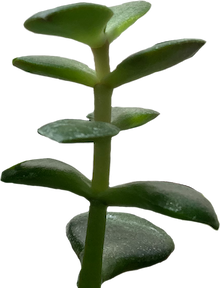
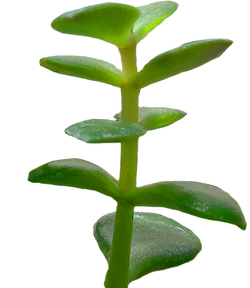
Tweak rendering and positioning of entities on canvas

diff --git a/src/core/canvas-ui/renderers/tree/plant-renderer.ts b/src/core/canvas-ui/renderers/tree/plant-renderer.ts
@@ -9,7 +9,7 @@ const jade = loadJadeAsset()
 const preRenderedPlants: OffscreenCanvas[] = []
 
 export default (plant: Plant, ctx: CanvasRenderingContext2D) => {
-  if(window.OffscreenCanvas != undefined && !window.DEBUG){
+  if ( window.OffscreenCanvas != undefined && !window.DEBUG ){
     if (preRenderedPlants[plant.id]) {
       drawPreRenderedPlant(plant, ctx)
     } else {
@@ -45,8 +45,6 @@ const renderPlantRecursively = (
   } else if (plant instanceof Jade) {
     renderJade(root, ctx)
   } else {
-    // ctx.strokeStyle = "#a56a27"
-    // ctx.lineWidth = 10
     ctx.strokeStyle = "#000000"
     ctx.lineWidth = 2
     renderBranch(root, ctx)
@@ -99,15 +97,15 @@ function loadLeafAsset(): HTMLImageElement {
 
 function loadJadeAsset(): HTMLImageElement {
   const leaf = new Image()
-  leaf.src = require("./jade-3.png")
+  leaf.src = require("./Jade.png")
   return leaf
 }
 
 function renderJade(root: ITreeStruct, ctx: EitherCanvasContext) {
   ctx.save()
-  ctx.translate(1.1 * jade.width / 2, 0)
+  ctx.translate(jade.width / 2, 0)
   ctx.drawImage(jade, -jade.width, -jade.height, jade.width, jade.height)
-  ctx.translate(-1.1 * jade.width / 2, 0)
+  ctx.translate(-jade.width / 2, 0)
   if(window.DEBUG){
     renderBranch(root, ctx)
     renderBranchChildren(undefined, root, ctx)

diff --git a/src/core/canvas-ui/renderers/bug/bug-renderer.ts b/src/core/canvas-ui/renderers/bug/bug-renderer.ts
@@ -22,7 +22,7 @@ export default (bug: Bug, ctx: CanvasRenderingContext2D) => {
   uiBug.update();
   const climbingYOffset = bug.climbingOn ? Math.ceil(bug.size.y * CLIMBING_Y_OFFSET) : 0;
   const groundYOffset = bug.climbingOn ? 0 : Math.ceil(bug.size.y * GROUND_Y_OFFSET);
-  const XOffset = bug.size.x * -0.2;
+  const XOffset = bug.size.x * -1/3;
   const { direction, size } = bug;
 
   const pos = new Victor(bug.pos.x, fixY(ctx.canvas.height, bug.pos.y));
@@ -49,7 +49,7 @@ export default (bug: Bug, ctx: CanvasRenderingContext2D) => {
     uiBug.getImage(),
     XOffset,
     -size.y + climbingYOffset + groundYOffset,
-    size.x,
+    size.x * 10/6,
     size.y
   );
 

diff --git a/src/core/entities/bug/bugFactory.ts b/src/core/entities/bug/bugFactory.ts
@@ -1,4 +1,4 @@
-import Bug, { BugState } from "./bug";
+import Bug, { BugState, defaultState } from "./bug";
 import Victor = require("victor");
 import { randBool } from "../../util/stats";
 
@@ -17,7 +17,7 @@ export default class BugFactory {
         size:
           initialState && initialState.size instanceof Victor
             ? initialState.size
-            : new Victor(128, 60).multiplyScalar(initialState?.size as number / 10),
+            : defaultState().size.multiplyScalar(initialState?.size as number / 4),
       }
     );
 

diff --git a/src/core/entities/bug/behaviors/GroundWalk.spec.ts b/src/core/entities/bug/behaviors/GroundWalk.spec.ts
@@ -51,10 +51,9 @@ describe("Ground Walking", () => {
     new GroundWalk(bug).do(input);
 
     const direction = bug.direction;
+    
     expect(bug.climbingOn.plant).toEqual(input[0]);
-
     expectEquals(direction, new Victor(0, 1));
-    expectEquals(bug.pos, new Victor(20, 30));
   });
 
   it("will stay on the ground when it reaches a tree if toggle is false", () => {

diff --git a/src/core/entities/plant/jade/jade.ts b/src/core/entities/plant/jade/jade.ts
@@ -56,7 +56,10 @@ var jadeTree: TreeStructData = {
         {
           node: { x: 2, y: 66 },
           flipY: true,
-          children: [{ node: { x: -3, y: 33 } }, { node: { x: 66, y: 29 } }],
+          children: [
+            { node: { x: -3, y: 33 } }, 
+            { node: { x: 66, y: 29 } }
+          ],
         },
       ],
     },

diff --git a/src/core/entities/bug/bug.ts b/src/core/entities/bug/bug.ts
@@ -24,7 +24,7 @@ export interface IClimbingOn {
 export const defaultState = () =>  ({
   //Position: the front of the bug at foot level
   pos: new Victor(0, 0),
-  size: new Victor(51.2, 24),
+  size: new Victor(30.72, 24),
   direction: new Victor(1, 0),
   speed: 1
 })

diff --git a/src/core/entities/plant/plantFactory.ts b/src/core/entities/plant/plantFactory.ts
@@ -18,7 +18,6 @@ export default class PlantFactory {
       },
       initialState
     )
-    console.log("Created plant with: ", newState);
     return new Jade(this.generateId(), newState)
   }
 

diff --git a/backlog.md b/backlog.md
@@ -1,3 +1,4 @@
+* Turn on prettier, run it, commit it.
 * Experiment w/ not exposing the entity factories outside the game => create interface on game to add entities
 * [Bug] Allow all constant params to be passed in as config
 * [Misc] Rename 'master' to 'main', make default branch.
